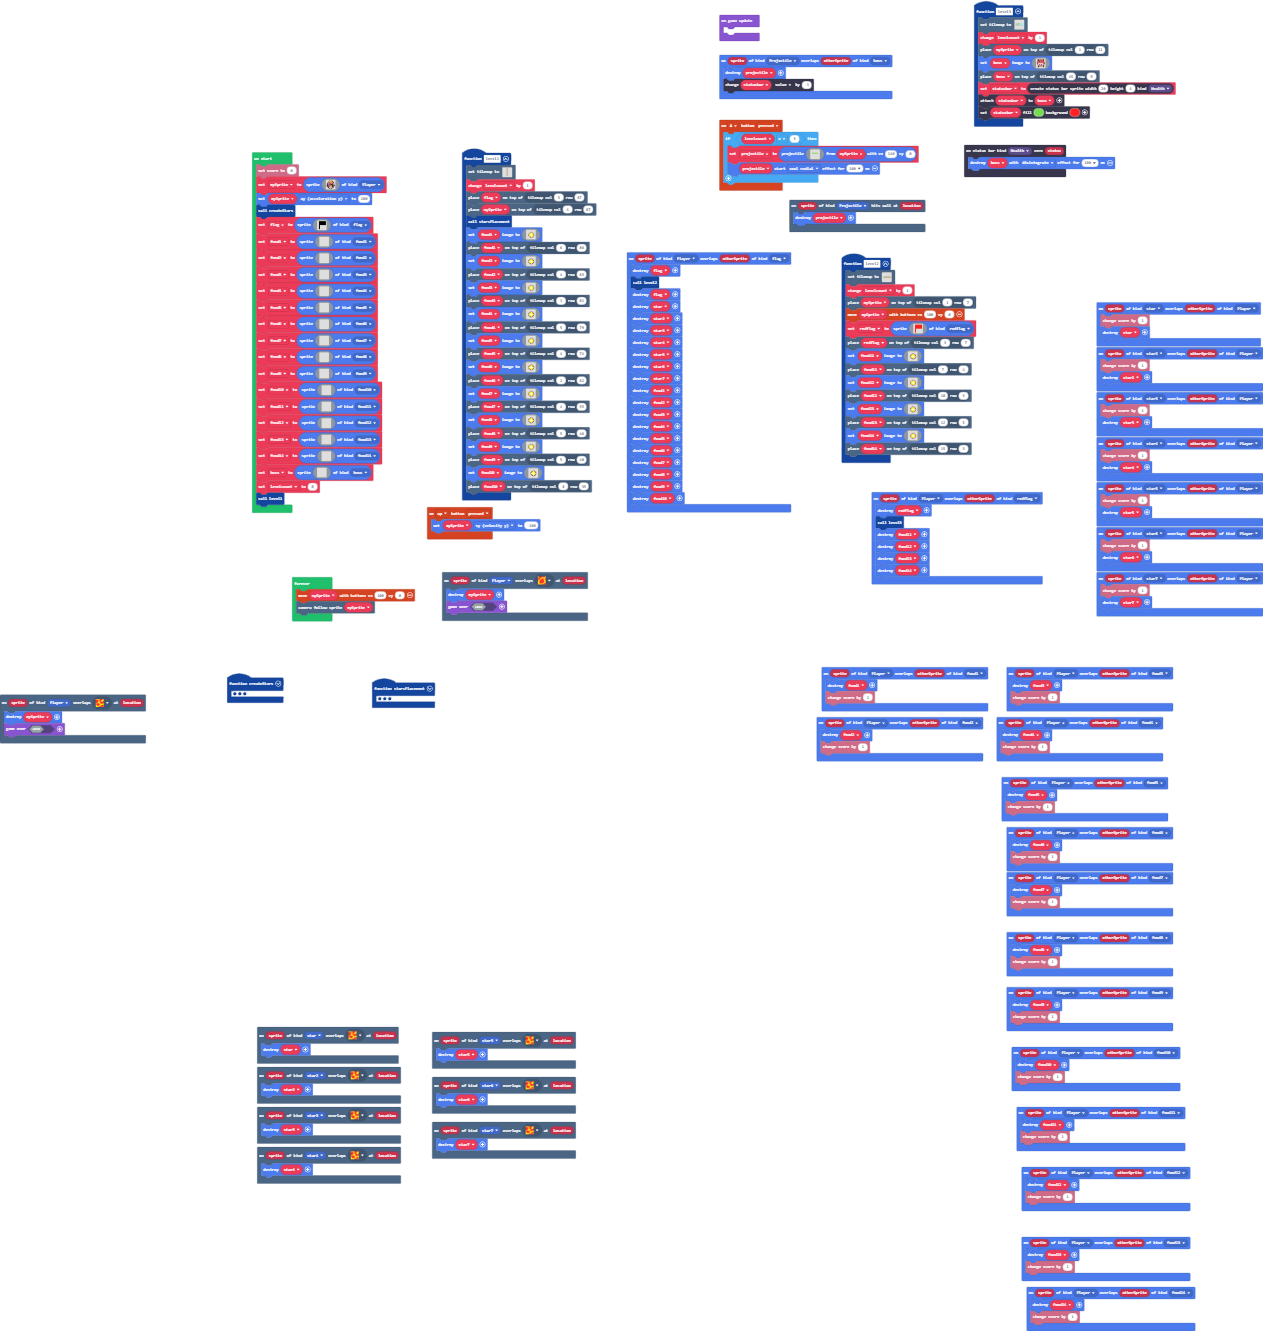
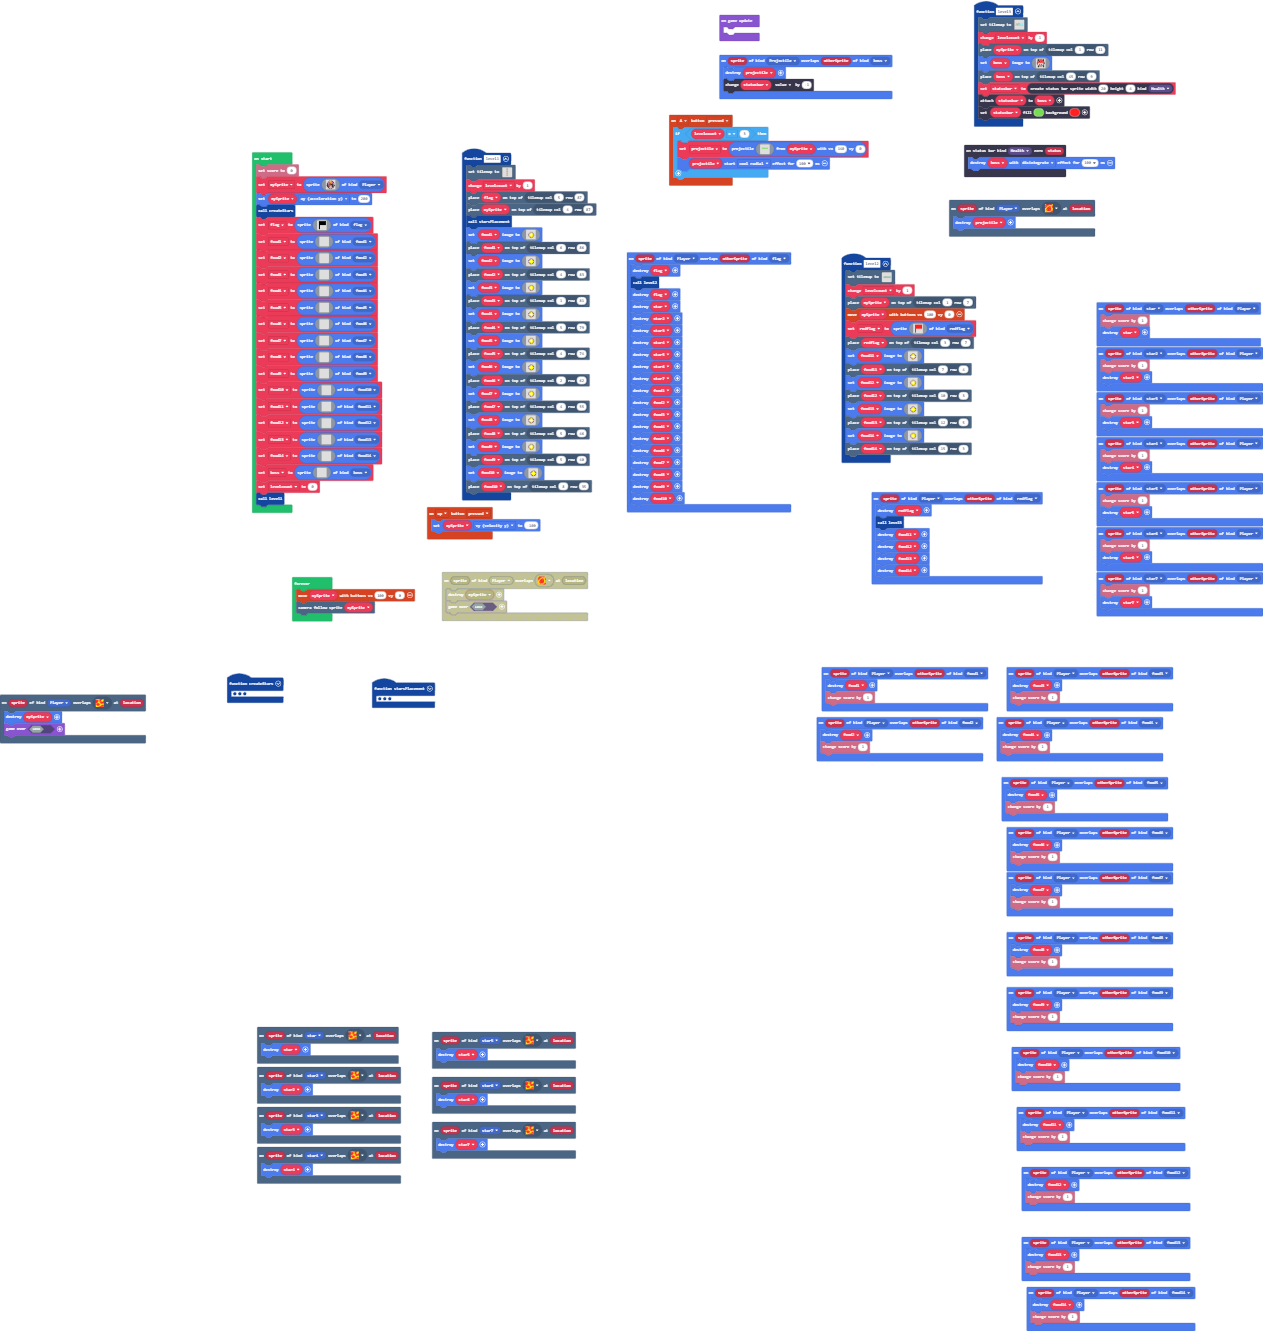
Update main.blocks, main.ts, tilemap.g.jres, tilemap.g.ts

Changed region(s): [[0.5249, 0.0616, 0.8646, 0.1848], [0.3397, 0.4313, 0.4632, 0.4929]]

diff --git a/tilemap.g.ts b/tilemap.g.ts
@@ -160,17 +160,17 @@ namespace myTiles {
 `, [myTiles.transparency16,sprites.builtin.forestTiles0,sprites.dungeon.hazardLava0,myTiles.tile1], TileScale.Sixteen);
             case "level4":
             case "level4":return tiles.createTilemap(hex`320010000303030303030303020203030303030303030202020202020202020303030303030303030303030303030303030303030303030303030303030302020303030303030303030202020202020202030303030303030303030303030303030303030303030303030303020203030202030302020203030303030202020202020203030303030303030303030303030303030303030303030303030302020303020203030202020203030303030202020202020303030303030303030303030303030303030303030303030303030202030302020303020202020303030303030202020202030303030303030303030303030303030303030303030303030303020203030202030302020202020303030303030202020203030303030303030303030303030303030303030303030303030302020303020203030202020202020303030303030202020303030303030303030303030303030303030303030303030303030202030302020303020202020202020303030303030202030303030303030303030303030303030303030303030303030303020203030202030302020202020202020303030303030203030303030303030303030303030303030303030303030303030302020303020203030202020202020202020303030303030303030303030303030303030303030303030303030303030303030202030302020303020202020202020202020303030303030303030303030303030303030303030303030303030303030303030303030303030303030303030303030303030303030303030303030303030303030303030303030303030303030101010101010101010101010101010101010101010101010101010101010101010101010101010101010101010101010101000000000000000000000000000000000000000000000000000000000000000000000000000000000000000000000000000000000000000000000000000000000000000000000000000000000000000000000000000000000000000000000000000000000000000000000000000000000000000000000000000000000000000000000000000000000000000000000000000000000000`, img`
-........22........222222222.......................
-........22.........22222222.......................
-....22..22..222.....2222222.......................
-....22..22..2222.....222222.......................
-....22..22..2222......22222.......................
-....22..22..22222......2222.......................
-....22..22..222222......222.......................
-....22..22..2222222......22.......................
-....22..22..22222222......2.......................
-....22..22..222222222.............................
-....22..22..2222222222............................
+..................................................
+..................................................
+..................................................
+..................................................
+..................................................
+..................................................
+..................................................
+..................................................
+..................................................
+..................................................
+..................................................
 ..................................................
 22222222222222222222222222222222222222222222222222
 ..................................................

diff --git a/main.ts b/main.ts
@@ -405,8 +405,7 @@ controller.A.onEvent(ControllerButtonEvent.Pressed, function () {
     }
 })
 scene.onOverlapTile(SpriteKind.Player, sprites.dungeon.hazardLava0, function (sprite, location) {
-    mySprite.destroy()
-    game.over(false)
+    projectile.destroy()
 })
 sprites.onOverlap(SpriteKind.Player, SpriteKind.redflag, function (sprite, otherSprite) {
     redflag.destroy()
@@ -642,9 +641,6 @@ sprites.onOverlap(SpriteKind.Projectile, SpriteKind.boss, function (sprite, othe
 sprites.onOverlap(SpriteKind.Player, SpriteKind.food7, function (sprite, otherSprite) {
     food7.destroy()
     info.changeScoreBy(1)
-})
-scene.onHitWall(SpriteKind.Projectile, function (sprite, location) {
-    projectile.destroy()
 })
 function starsPlacement () {
     star.setImage(img`
